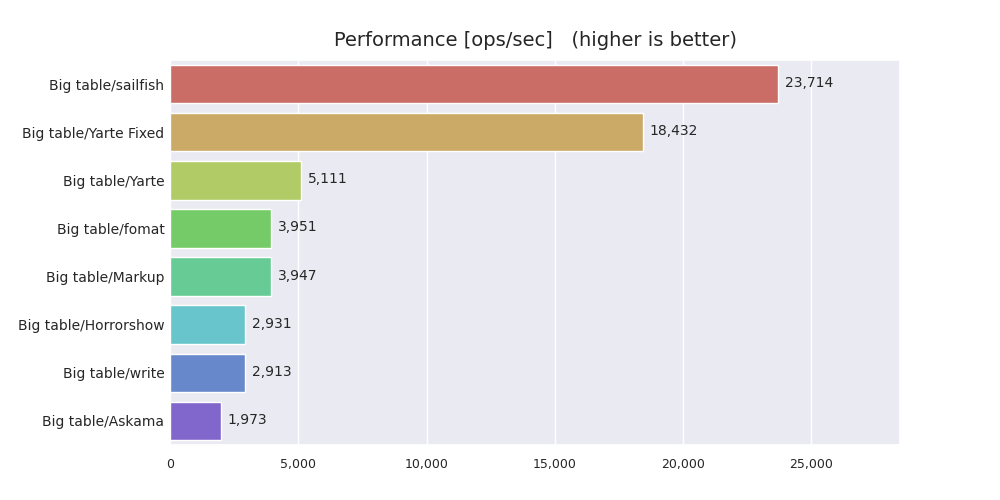
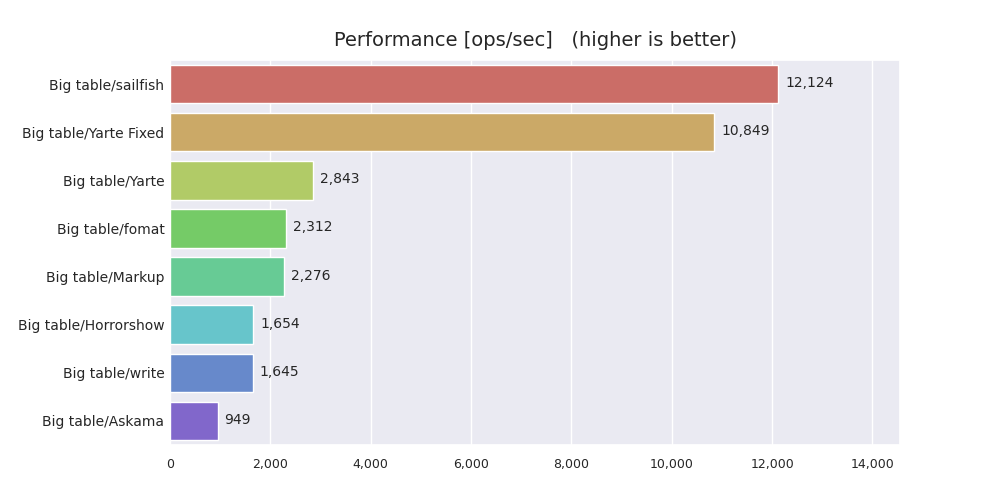
Paste benchmark results collected on Cloud

diff --git a/benches/README.md b/benches/README.md
@@ -20,9 +20,11 @@ $ cargo bench
 
 ## Environment
 
-- OS: Ubuntu 20.04 LTS
-- CPU Model Name: Intel(R) Core(TM) i5-8265U CPU @ 1.60GHz
-- BogoMIPS: 3600.00
+Benchmark results were collected on the IBM Cloud Virtual Server Instance
+
+- OS: Ubuntu 18.04-64 Minimal for VSI
+- CPU Model Name: Intel(R) Xeon(R) CPU E5-2683 v4 @ 2.10GHz
+- BogoMIPS: 4200.04
 
 ## Results
 
